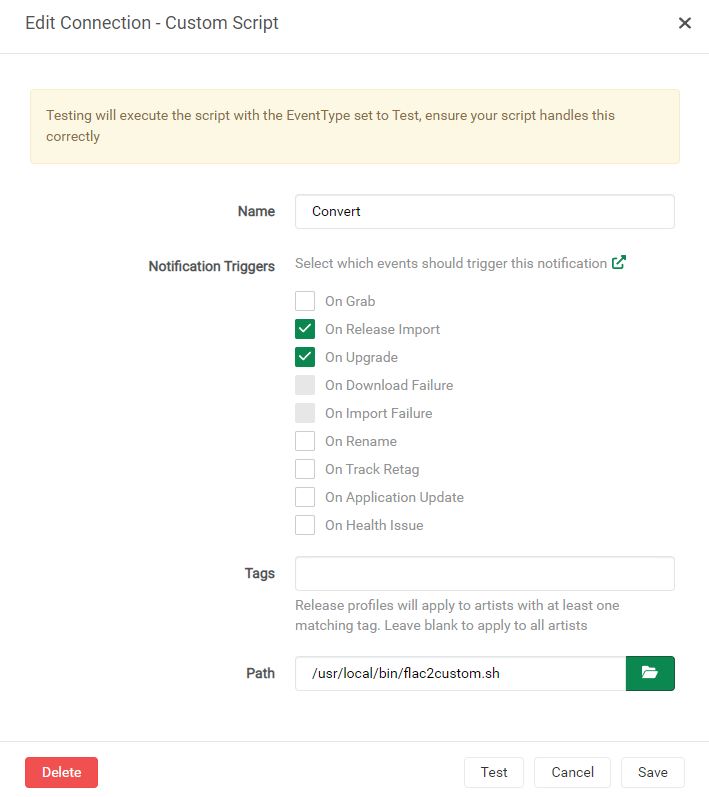
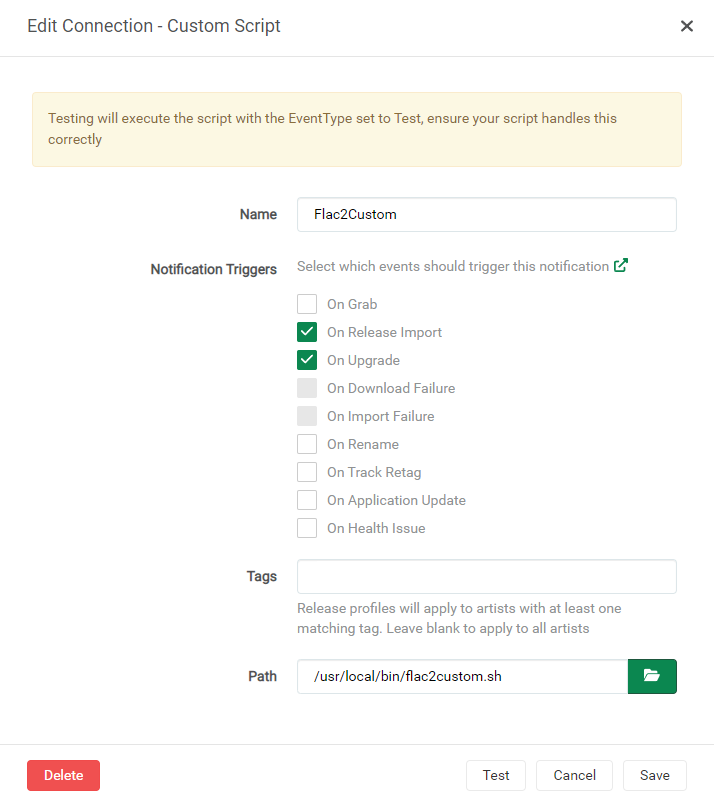
autoconfigure flac2custom

diff --git a/README.md b/README.md
@@ -33,7 +33,7 @@ This allows an easy deployment, with the advantage of having a direct control ov
 
 ### Docker Run
 
-```shell
+```sh
 docker run \
   --name lidarr \
   -p 8686:8686 \
@@ -75,6 +75,7 @@ The only manual manipulation you'll have to do is filling your Deezer credential
   - Delay profile allowing Deemix to be used by automatic search
   - Deemix as an indexer
   - Deemix as a download client
+  - Flac2Custom script connection if `FLAC2CUSTOM_ARGS` is set
 
 In case you don't want the automagical part (which is really the only value of this image), just set `AUTOCONFIG` environment variable to `false`.
 
@@ -82,13 +83,15 @@ In case you don't want the automagical part (which is really the only value of t
 
 The image uses a modded version of lidarr-flac2mp3 allowing conversion from any format.
 
-To enable conversion on Lidarr import, create a new Connection to a Custom Script. You can also provide your own custom conversion script here, see [lidarr-flac2mp3](https://github.com/youegraillot/lidarr-flac2mp3) for mode information.
+To enable conversion on Lidarr import, create a new Connection to a Custom Script. You can also provide your own custom conversion script, see [lidarr-flac2mp3](https://github.com/youegraillot/lidarr-flac2mp3) for more information.
+
+If `AUTOCONFIG` is set to `true` (default) and you have set `FLAC2CUSTOM_ARGS`, this step done for you :
 
 !["Lidarr custom script settings"](https://github.com/youegraillot/lidarr-on-steroids/raw/main/.assets/lidarr-custom-script.png "Lidarr custom script settings")
 
 ## Acknowledgment
 
-This project is just a compilation of various tools made possible by those projects :
+This project is just a compilation of various tools made possible by these projects :
 
 - [Lidarr](https://github.com/Lidarr/Lidarr) and especially [ta264](https://github.com/ta264) for the plugin integration
 - [lidarr-flac2mp3](https://github.com/TheCaptain989/lidarr-flac2mp3) for the format conversion script
